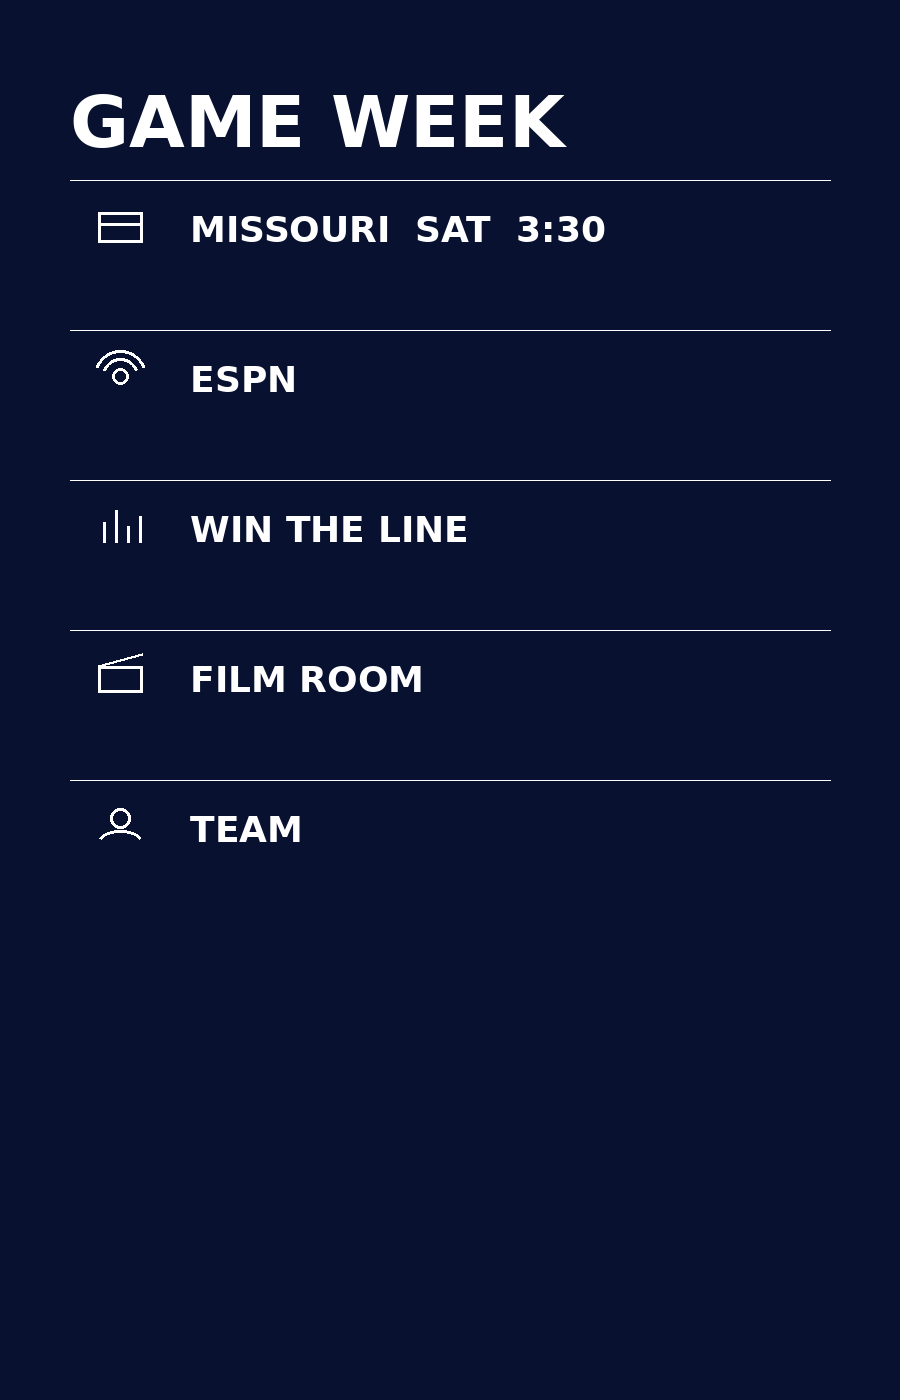
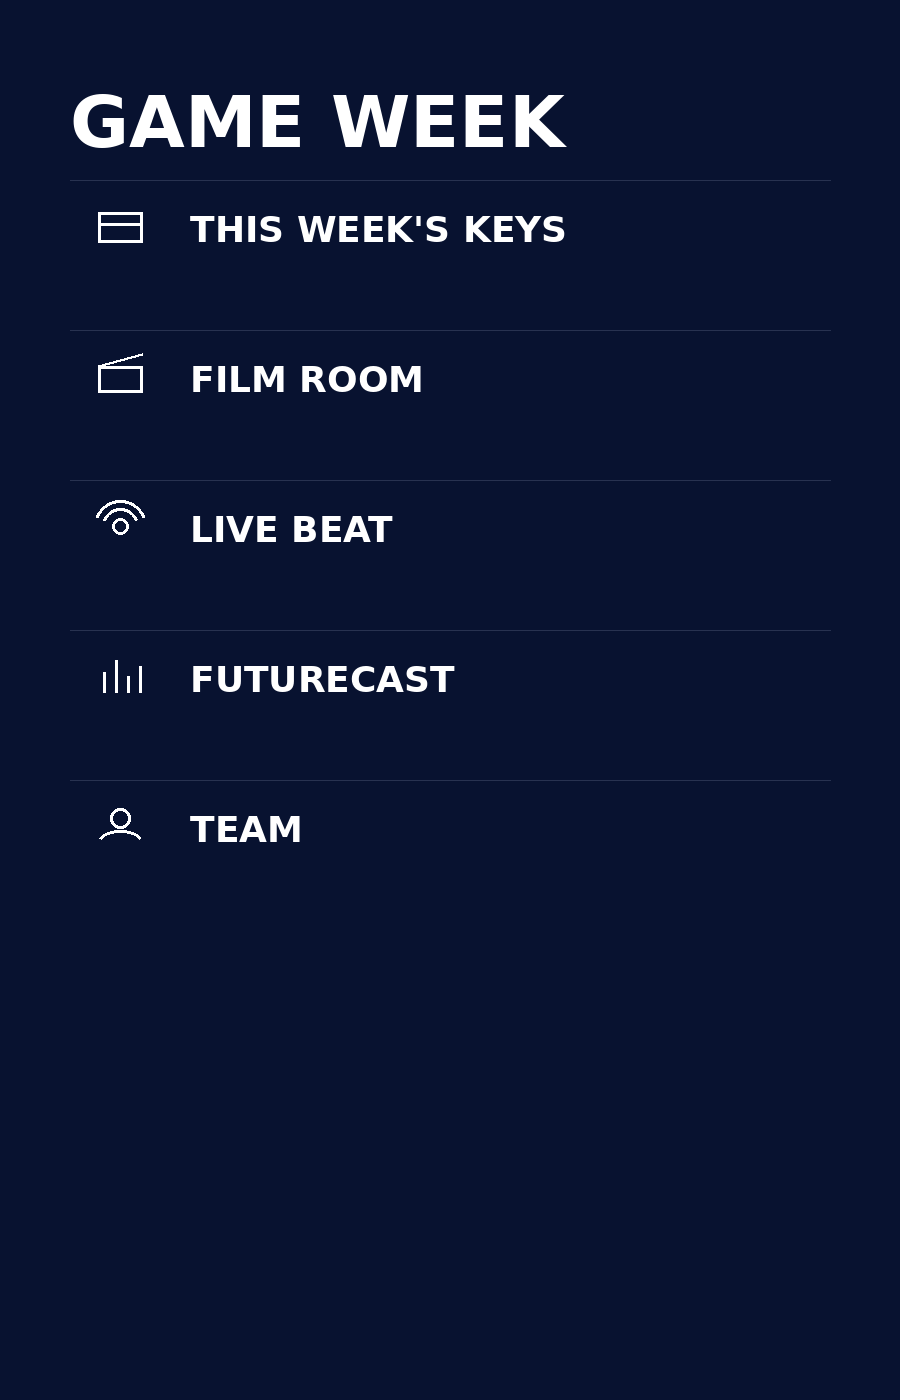
Drop Missouri and 3:30 from the 15-day Meta Game Week ad.
Phone C is evergreen feature lines only so the creative does not go stale after this Saturday.

diff --git a/docs/promo/meta-ads-refresh/render-phone-screens.py b/docs/promo/meta-ads-refresh/render-phone-screens.py
@@ -7,10 +7,8 @@ OUT = Path(__file__).resolve().parent
 NAVY = (8, 18, 48)
 WHITE = (255, 255, 255)
 ROW = (255, 255, 255)
-GOLD = (212, 175, 55)
 
 BOLD = "/usr/share/fonts/truetype/dejavu/DejaVuSans-Bold.ttf"
-REG = "/usr/share/fonts/truetype/dejavu/DejaVuSans.ttf"
 
 
 def font(path, size):
@@ -53,7 +51,7 @@ def render(path, title_lines, rows):
         y += 88
     y += 40
     for kind, label in rows:
-        d.line([(70, y - 28), (w - 70, y - 28)], fill=(255, 255, 255, 40), width=1)
+        d.line([(70, y - 28), (w - 70, y - 28)], fill=(40, 50, 80), width=1)
         draw_icon(d, kind, 120, y + 18)
         d.text((190, y), label, font=row_font, fill=ROW)
         y += 150
@@ -77,10 +75,10 @@ def main():
         OUT / "phone-game-week.png",
         ["GAME WEEK"],
         [
-            ("cal", "MISSOURI  SAT  3:30"),
-            ("radio", "ESPN"),
-            ("chart", "WIN THE LINE"),
+            ("cal", "THIS WEEK'S KEYS"),
             ("clapper", "FILM ROOM"),
+            ("radio", "LIVE BEAT"),
+            ("chart", "FUTURECAST"),
             ("people", "TEAM"),
         ],
     )

diff --git a/server/brand/ads-kit/facebook-instagram-ad.md b/server/brand/ads-kit/facebook-instagram-ad.md
@@ -2,6 +2,8 @@
 
 Keep the last winning look (woman + phone + FLORIDA FOOTBALL UNLOCKED). Do not swap in vault-door art.
 
+This flight is at least 15 days. No Missouri. No 3:30. No one-Saturday lines.
+
 Full clicks: `docs/promo/meta-ads-refresh/README.md`
 
 ## Keep running
@@ -22,16 +24,15 @@ Download Gator Vault Insider on the App Store.
 
 Phone lines: 2028 BOARD / IS LIVE / BAILEY COMMIT / SMITH COMMIT / CHASE BOARD / FILM ROOM / GAME WEEK
 
-## New ad C — same photo, Game Week phone text
+## New ad C — same photo, Game Week phone text (evergreen)
 
 **Headline:** Game Week is in the app.
 
 **Primary text:**
 
-Missouri. Saturday. 3:30. ESPN.
-Keys, film, and the board — in Gator Vault Insider.
-Download on the App Store.
+Every week's keys, film, and the board — in one app.
+Download Gator Vault Insider on the App Store.
 
 **Description:** Game Week in one app.
 
-Phone lines: GAME WEEK / MISSOURI SAT 3:30 / ESPN / WIN THE LINE / FILM ROOM / TEAM
+Phone lines: GAME WEEK / THIS WEEK'S KEYS / FILM ROOM / LIVE BEAT / FUTURECAST / TEAM

diff --git a/docs/promo/meta-ads-refresh/README.md b/docs/promo/meta-ads-refresh/README.md
@@ -1,5 +1,7 @@
 # Meta ads — keep the last ad look
 
+This flight is at least 15 days. Do **not** put Missouri, 3:30, ESPN, or any one Saturday on the art. That goes stale in a week.
+
 Do **not** replace the woman + phone + FLORIDA FOOTBALL UNLOCKED image with the vault pictures. That ad is the winner. It got tired from running too long, not because it looks cheap.
 
 ## Tonight
@@ -26,7 +28,7 @@ FILM ROOM
 GAME WEEK
 ```
 
-### Phone text — version C (Game Week)
+### Phone text — version C (Game Week — evergreen)
 
 Headline:
 ```
@@ -35,12 +37,14 @@ GAME WEEK
 
 Rows:
 ```
-MISSOURI  SAT  3:30
-ESPN
-WIN THE LINE
+THIS WEEK'S KEYS
 FILM ROOM
+LIVE BEAT
+FUTURECAST
 TEAM
 ```
+
+No opponent. No kickoff time. No TV network.
 
 5. Export two new squares (1080×1080).
 6. Ads Manager → **Gator Vault Insider 2.0** → **New App promotion Ad Set** → **New App promotion Ad** → Duplicate.
